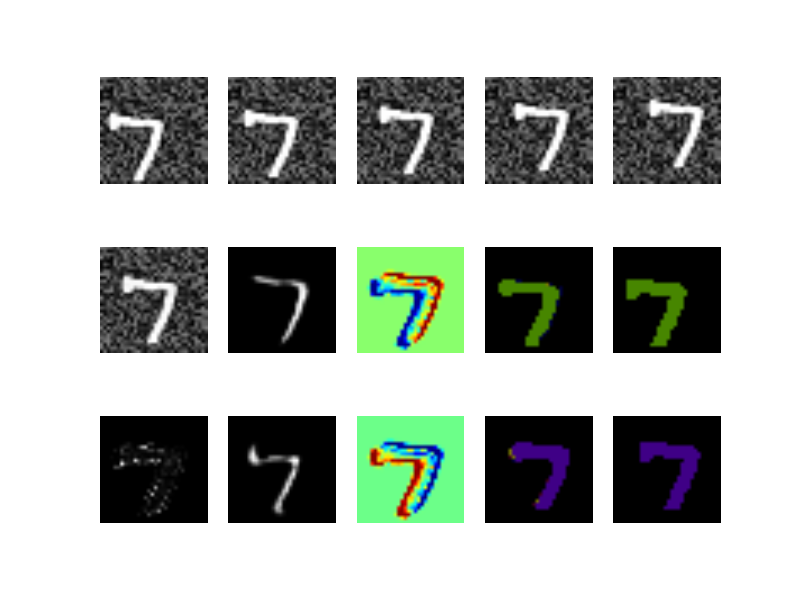
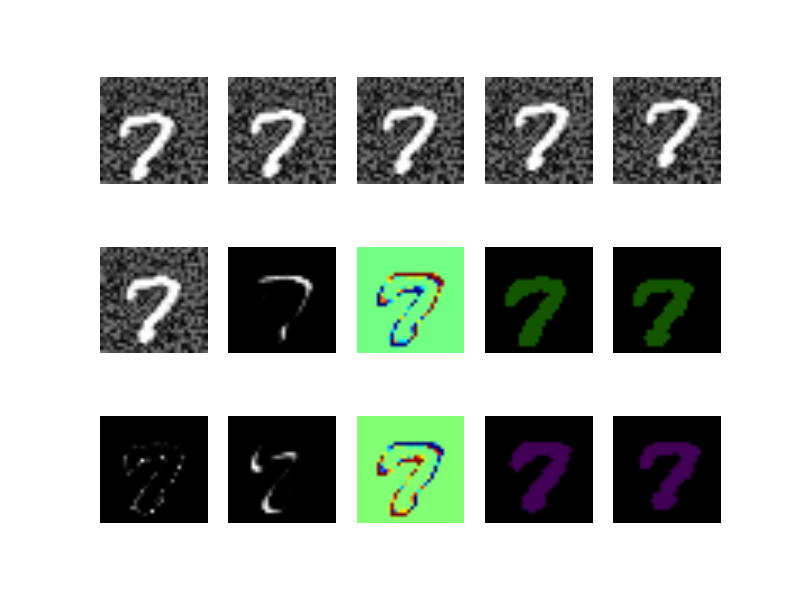
finish exp017-2, unsupervised model works almost as good as supervised on object and background motion

diff --git a/exp017-2/data.py b/exp017-2/data.py
@@ -1,0 +1,136 @@
+import os
+import numpy
+import matplotlib.pyplot as plt
+from skimage import io, transform
+import h5py
+
+import learning_args
+import logging
+logging.basicConfig(format='[%(levelname)s %(asctime)s %(filename)s:%(lineno)s] %(message)s',
+                            level=logging.INFO)
+
+
+def motion_dict(m_range):
+    m_dict, reverse_m_dict = {}, {}
+    x = numpy.linspace(-m_range, m_range, 2 * m_range + 1)
+    y = numpy.linspace(-m_range, m_range, 2 * m_range + 1)
+    m_x, m_y = numpy.meshgrid(x, y)
+    m_x, m_y, = m_x.reshape(-1).astype(int), m_y.reshape(-1).astype(int)
+    m_kernel = numpy.zeros((1, len(m_x), 2 * m_range + 1, 2 * m_range + 1))
+    for i in range(len(m_x)):
+        m_dict[(m_x[i], m_y[i])] = i
+        reverse_m_dict[i] = (m_x[i], m_y[i])
+        m_kernel[:, i, m_y[i] + m_range, m_x[i] + m_range] = 1
+    return m_dict, reverse_m_dict, m_kernel
+
+
+def load_mnist(file_name='../mnist.h5'):
+    script_dir = os.path.dirname(__file__)  # absolute dir the script is in
+    f = h5py.File(os.path.join(script_dir, file_name))
+    train_images = f['train'].value.reshape(-1, 28, 28)
+    train_images = numpy.pad(train_images, ((0, 0), (2, 2), (2, 2)), 'constant')
+    train_images = numpy.expand_dims(train_images, 1)
+    test_images = f['test'].value.reshape(-1, 28, 28)
+    test_images = numpy.pad(test_images, ((0, 0), (2, 2), (2, 2)), 'constant')
+    test_images = numpy.expand_dims(test_images, 1)
+    return train_images, test_images
+
+
+def generate_images(args, images, m_dict, reverse_m_dict):
+    noise = 0.5
+    im_size, m_range, batch_size = args.image_size, args.motion_range, args.batch_size
+    im_channel = images.shape[1]
+    idx = numpy.random.permutation(images.shape[0])
+    im3 = images[idx[0:batch_size], :, :, :]
+    bg3 = numpy.random.rand(batch_size, im_channel, im_size, im_size) * noise
+    m_label = numpy.random.randint(0, len(m_dict), size=(batch_size, 2))
+    m_f_x = numpy.zeros((batch_size, 2)).astype(int)
+    m_f_y = numpy.zeros((batch_size, 2)).astype(int)
+    m_b_x = numpy.zeros((batch_size, 2)).astype(int)
+    m_b_y = numpy.zeros((batch_size, 2)).astype(int)
+    for i in range(batch_size):
+        for j in range(m_label.shape[1]):
+            (m_f_x[i, j], m_f_y[i, j]) = reverse_m_dict[m_label[i, j]]
+            (m_b_x[i, j], m_b_y[i, j]) = (-m_f_x[i, j], -m_f_y[i, j])
+    gt_motion_f = numpy.zeros((batch_size, 1, im_size, im_size))
+    gt_motion_b = numpy.zeros((batch_size, 1, im_size, im_size))
+    bg_motion_f = numpy.zeros((batch_size, 1, im_size, im_size))
+    bg_motion_b = numpy.zeros((batch_size, 1, im_size, im_size))
+    for i in range(batch_size):
+        gt_motion_f[i, :, :, :] = m_label[i, 0]
+        gt_motion_b[i, :, :, :] = m_dict[(m_b_x[i, 0], m_b_y[i, 0])]
+        bg_motion_f[i, :, :, :] = m_label[i, 1]
+        bg_motion_b[i, :, :, :] = m_dict[(m_b_x[i, 1], m_b_y[i, 1])]
+    im2 = move_image_fg(im3, m_b_x[:, 0], m_b_y[:, 0], m_range)
+    im1 = move_image_fg(im2, m_b_x[:, 0], m_b_y[:, 0], m_range)
+    im4 = move_image_fg(im3, m_f_x[:, 0], m_f_y[:, 0], m_range)
+    im5 = move_image_fg(im4, m_f_x[:, 0], m_f_y[:, 0], m_range)
+    bg2 = move_image_bg(bg3, m_b_x[:, 1], m_b_y[:, 1], m_range)
+    bg1 = move_image_bg(bg2, m_b_x[:, 1], m_b_y[:, 1], m_range)
+    bg4 = move_image_bg(bg3, m_f_x[:, 1], m_f_y[:, 1], m_range)
+    bg5 = move_image_bg(bg4, m_f_x[:, 1], m_f_y[:, 1], m_range)
+    for i in range(batch_size):
+        gt_motion_f[im2 == 0] = bg_motion_f[im2 == 0]
+        gt_motion_b[im4 == 0] = bg_motion_b[im4 == 0]
+    im1[im1 == 0] = bg1[im1 == 0]
+    im2[im2 == 0] = bg2[im2 == 0]
+    im3[im3 == 0] = bg3[im3 == 0]
+    im4[im4 == 0] = bg4[im4 == 0]
+    im5[im5 == 0] = bg5[im5 == 0]
+    if False:
+        display(im1, im2, im3, im4, im5, gt_motion_f, gt_motion_b)
+    return im1, im2, im3, im4, im5, gt_motion_f.astype(int), gt_motion_b.astype(int)
+
+
+def move_image_fg(im, m_x, m_y, m_range):
+    [batch_size, im_channel, _, im_size] = im.shape
+    im_big = numpy.zeros((batch_size, im_channel, im_size + m_range * 2, im_size + m_range * 2))
+    im_big[:, :, m_range:-m_range, m_range:-m_range] = im
+    im_new = numpy.zeros((batch_size, im_channel, im_size, im_size))
+    for i in range(batch_size):
+        im_new[i, :, :, :] = im_big[i, :, m_range + m_y[i]:m_range + m_y[i] + im_size,
+                             m_range + m_x[i]:m_range + m_x[i] + im_size]
+    return im_new
+
+
+def move_image_bg(im, m_x, m_y, m_range):
+    noise = 0.5
+    [batch_size, im_channel, _, im_size] = im.shape
+    im_big = numpy.random.rand(batch_size, im_channel, im_size + m_range * 2, im_size + m_range * 2) * noise
+    im_big[:, :, m_range:-m_range, m_range:-m_range] = im
+    im_new = numpy.zeros((batch_size, im_channel, im_size, im_size))
+    for i in range(batch_size):
+        im_new[i, :, :, :] = im_big[i, :, m_range + m_y[i]:m_range + m_y[i] + im_size,
+                             m_range + m_x[i]:m_range + m_x[i] + im_size]
+    return im_new
+
+
+def display(im1, im2, im3, im4, im5, gt_motion_f, gt_motion_b):
+    plt.figure(1)
+    plt.subplot(1, 5, 1)
+    plt.imshow(im1[0, :, :, :].squeeze())
+    plt.axis('off')
+    plt.subplot(1, 5, 2)
+    plt.imshow(im2[0, :, :, :].squeeze())
+    plt.axis('off')
+    plt.subplot(1, 5, 3)
+    plt.imshow(im3[0, :, :, :].squeeze())
+    plt.axis('off')
+    plt.subplot(1, 5, 4)
+    plt.imshow(im4[0, :, :, :].squeeze())
+    plt.axis('off')
+    plt.subplot(1, 5, 5)
+    plt.imshow(im5[0, :, :, :].squeeze())
+    plt.axis('off')
+    plt.show()
+
+
+def unit_test():
+    m_dict, reverse_m_dict, m_kernel = motion_dict(1)
+    args = learning_args.parse_args()
+    train_images, test_images = load_mnist()
+    [_, _, args.image_size, _] = train_images.shape
+    generate_images(args, train_images, m_dict, reverse_m_dict)
+
+if __name__ == '__main__':
+    unit_test()

diff --git a/exp017-2/models.py b/exp017-2/models.py
@@ -98,7 +98,7 @@ class FullyConvResNet(nn.Module):
 class UNet(nn.Module):
     def __init__(self, im_size, im_channel, n_class):
         super(UNet, self).__init__()
-        num_hidden = 32
+        num_hidden = 64
         self.conv0 = nn.Conv2d(2*im_channel, num_hidden, 3, 1, 1)
         self.bn0 = nn.BatchNorm2d(num_hidden)
         self.conv1 = nn.Conv2d(num_hidden, num_hidden, 3, 1, 1)
@@ -124,6 +124,7 @@ class UNet(nn.Module):
         self.maxpool = nn.MaxPool2d(2, stride=2, return_indices=False, ceil_mode=False)
         self.upsample = nn.UpsamplingBilinear2d(scale_factor=2)
         self.conv = nn.Conv2d(num_hidden*2, n_class, 3, 1, 1)
+        self.conv_disappear = nn.Conv2d(num_hidden*2, 1, 3, 1, 1)
         self.im_size = im_size
         self.im_channel = im_channel
         self.n_class = n_class
@@ -157,7 +158,8 @@ class UNet(nn.Module):
         x10 = self.upsample(x10)
         x = torch.cat((x10, x1), 1)
         motion = self.conv(x)
-        return motion
+        disappear = F.sigmoid(self.conv_disappear(x))
+        return motion, disappear
 
 
 class UNetBidirection(nn.Module):
@@ -285,5 +287,3 @@ def construct_image(im, motion, disappear, m_range, m_kernel, padding=0):
     for i in range(im.size(0)):
         pred[i, :, :, :] = F.conv2d(im_expand[i, :, :, :].unsqueeze(0), m_kernel, None, 1, padding)
     return pred
-
-

diff --git a/exp017-2/learning_args.py b/exp017-2/learning_args.py
@@ -1,0 +1,23 @@
+import argparse
+import logging
+logging.basicConfig(format='[%(levelname)s %(asctime)s %(filename)s:%(lineno)s] %(message)s',
+                    level=logging.INFO)
+
+
+def parse_args():
+    arg_parser = argparse.ArgumentParser(description='unsupervised motion', add_help=False)
+    arg_parser.add_argument('--train', action='store_true')
+    arg_parser.add_argument('--test', action='store_true')
+    arg_parser.add_argument('--method', default='unsupervised')
+    arg_parser.add_argument('--train_epoch', type=int, default=1000)
+    arg_parser.add_argument('--test_epoch', type=int, default=500)
+    arg_parser.add_argument('--test_interval', type=int, default=500)
+    arg_parser.add_argument('--display', action='store_true')
+    arg_parser.add_argument('--save_dir', default='./model')
+    arg_parser.add_argument('--batch_size', type=int, default=32)
+    arg_parser.add_argument('--init_model_path', default='')
+    arg_parser.add_argument('--learning_rate', type=float, default=0.01)
+    arg_parser.add_argument('--motion_range', type=int, default=1)
+    arg_parser.add_argument('--image_size', type=int, default=11)
+    args = arg_parser.parse_args()
+    return args

diff --git a/exp017-2/README.md b/exp017-2/README.md
@@ -1,0 +1,38 @@
+local motion using fully convolutional network to predict every pixel motion
+MNIST dataset
+Digit has motion, background has motion
+use 5 frames instead of 3 frames, the third frame is the supervision
+adding noise to MNIST background
+use L1 loss instead of L2 loss for unsupervised learning
+
+### Synthetic motion on synthetic images
+The images are randomly sampled from MNIST dataset.
+MNIST contains 50000 training images and 10000 testing images.
+Image resolution: 28x28x1.
+Add extra layer for predicting disappeared pixels, these pixels should be able to be predicted by looking at the motion and image segmentation.
+motion range = 1 corresponds to 9 motion classes.
+motion range = 2 corresponds to 25 motion classes.
+motion range = 3 corresponds to 49 motion classes.
+motion range = 5 corresponds to 121 motion classes.
+
+input: two frames (i.e. 28x28x4)
+output: two local motion (i.e. 32x32x9x2) and two disappear map (i.e. 32x32x1x2) and two attention map
+
+| Global motion | Testing Accuracy (%) |
+| ------------- | ----------- | ----------- |
+| motion range = 1, supervised 2 frames, UNet | |
+| motion range = 2, supervised 2 frames, UNet | |
+| motion range = 3, supervised 2 frames, UNet, num_hidden = 32 | 91 |
+| motion range = 3, supervised 2 frames, UNet, num_hidden = 64 | 95 |
+| motion range = 5, supervised 2 frames, UNet | |
+| motion range = 1, unsupervised 3 frames, UNet | |
+| motion range = 2, unsupervised 3 frames, UNet | |
+| motion range = 3, unsupervised 3 frames, UNet | 94 |
+| motion range = 5, unsupervised 3 frames, UNet | |
+
+Take Home Message:
+
+It works!!!
+
+Using 5 frames with disappear and attention modeling significantly better than using 3 frames or without disappear modeling, on data where background also have motion.
+
